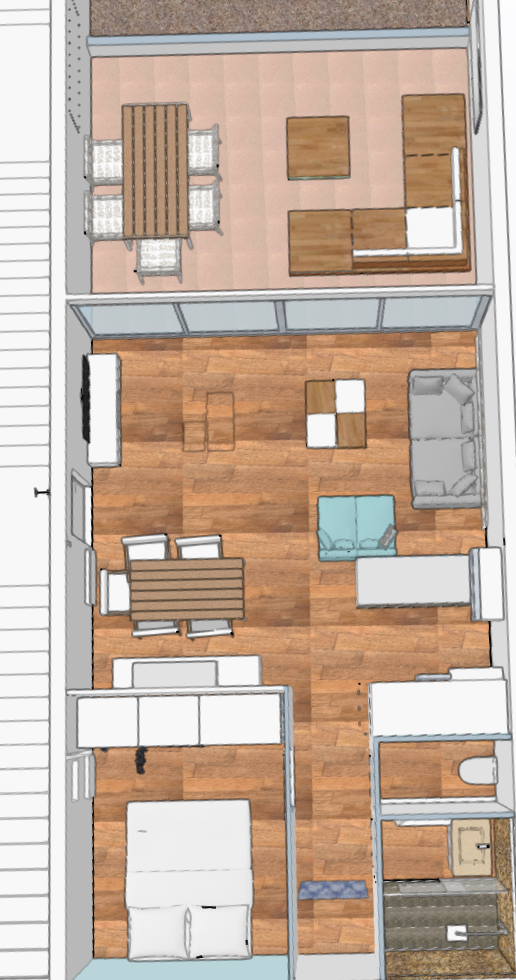
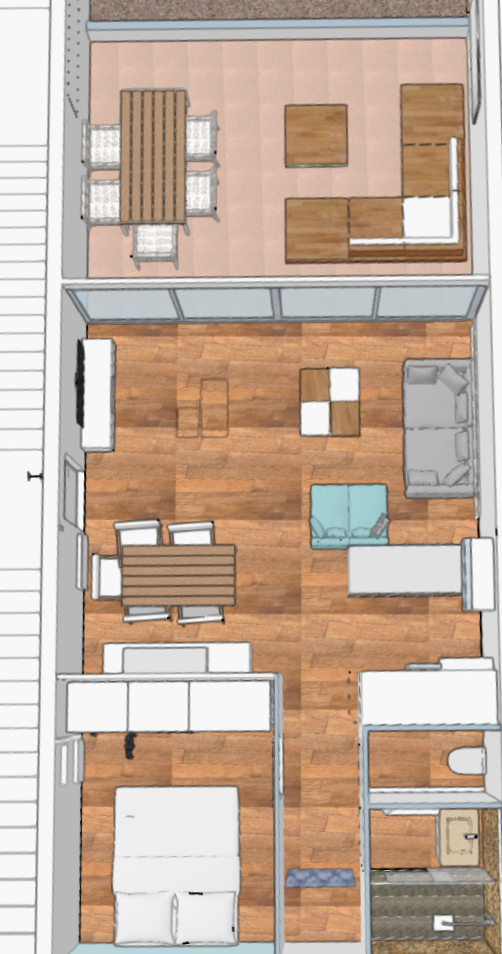
📝 Mise à jour guide Katikias 33 - 03/11/2025  9:24:03,48

diff --git a/apartment_guide.html b/apartment_guide.html
@@ -267,19 +267,19 @@
                         <a href="chambre.html" class="clickable-zone" style="top: 70%; left: 14%; width: 42%; height: 29%;">
                             <span class="zone-label">🛏 Chambre</span>
                         </a>
-                        <a href="salle_deau.html" class="clickable-zone" style="top: 83%; left: 74%; width: 24%; height: 16%;">
+                        <a href="salle_deau.html" class="clickable-zone" style="top: 83%; left: 74%; width: 25%; height: 16%;">
                             <span class="zone-label">🛁 Salle d'eau</span>
                         </a>
-                        <a href="wc.html" class="clickable-zone" style="top: 75%; left: 74%; width: 24%; height: 8%;">
+                        <a href="wc.html" class="clickable-zone" style="top: 75%; left: 74%; width: 25%; height: 8%;">
                             <span class="zone-label">🚻 WC</span>
                         </a>
-                        <a href="cuisine.html" class="clickable-zone" style="top: 57%; left: 56%; width: 41%; height: 18%;">
+                        <a href="cuisine.html" class="clickable-zone" style="top: 57%; left: 56%; width: 43%; height: 18%;">
                             <span class="zone-label">🍽 Cuisine</span>
                         </a>
-                        <a href="terrasse.html" class="clickable-zone" style="top: 5%; left: 14%; width: 80%; height: 25%;">
+                        <a href="terrasse.html" class="clickable-zone" style="top: 2%; left: 14%; width: 83%; height: 31%;">
                             <span class="zone-label">🌤 Terrasse</span>
                         </a>
-                        <a href="salon.html" class="clickable-zone" style="top: 30%; left: 14%; width: 80%; height:27%;">
+                        <a href="salon.html" class="clickable-zone" style="top: 33%; left: 14%; width: 84%; height:24%;">
                             <span class="zone-label">🛋 Salon</span>
                         </a>
                         <a href="placard_bleu.html" class="clickable-zone" style="top: 89%; left: 56%; width: 18%; height: 10%;">

diff --git a/index.html b/index.html
@@ -188,6 +188,12 @@
             transform: translateY(-2px);
             box-shadow: 0 4px 8px rgba(0, 0, 0, 0.1);
         }
+        /* Hover pour la section Essentiels */
+        .essentiels-link:hover {
+            background: #bbdefb !important;
+            transform: translateY(-2px);
+            box-shadow: 0 4px 8px rgba(33, 150, 243, 0.3);
+        }
         .footer {
             text-align: center;
             padding: 20px;
@@ -226,13 +232,13 @@
                             <p style="margin-top: 10px; font-style: italic; color: #666;">Béatrix et Jean-François.</p>
                         </div>
                     </div>
-                    <div style="margin-top: 20px; padding: 15px; background: #e3f2fd; border-radius: 10px; border: 2px solid #2196F3;">
-                        <a href="tips_and_tricks.html" style="color: #1976D2; text-decoration: none; font-weight: bold; display: flex; align-items: center; justify-content: space-between;">
+                    <a href="tips_and_tricks.html" class="essentiels-link" style="display: block; margin-top: 20px; padding: 15px; background: #e3f2fd; border-radius: 10px; border: 2px solid #2196F3; text-decoration: none; transition: all 0.3s ease; cursor: pointer;">
+                        <div style="color: #1976D2; text-decoration: none; font-weight: bold; display: flex; align-items: center; justify-content: space-between; pointer-events: none;">
                             <span>✨ Essentiels à l'arrivée</span>
                             <span style="font-size: 0.9rem;">→</span>
-                        </a>
-                        <p style="color: #555; font-size: 0.9rem; margin-top: 5px;">Petites astuces pour faciliter votre installation et votre séjour.</p>
-                    </div>
+                        </div>
+                        <p style="color: #555; font-size: 0.9rem; margin-top: 5px; pointer-events: none;">Petites astuces pour faciliter votre installation et votre séjour.</p>
+                    </a>
                 </div>
                 
                 <a href="apartment_guide.html" class="guide-card apartment">
